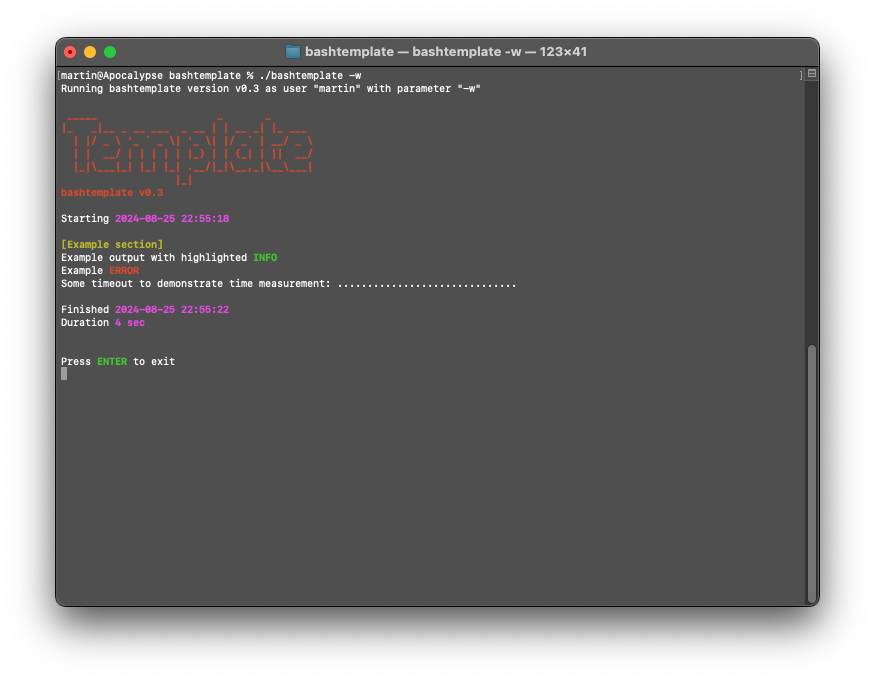
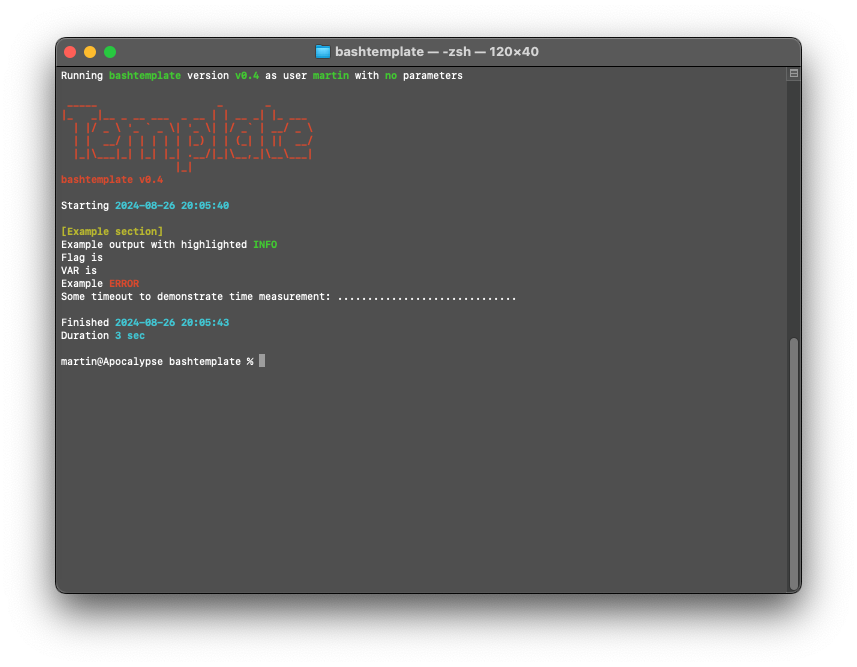
Updated Screenshot and README

Changed region(s): [[0.0607, 0.03, 0.9405, 0.8996]]

diff --git a/README.md b/README.md
@@ -11,10 +11,8 @@ This script helps you with:
 - Handling of commandline parameters
 - Measering used time
 - Coloring of output
-- Exiting with or without error
 - Warning about empty variables
 - Debugging output (if needed)
-- Waiting on exit (if needed)
 
 ## Screenshot
 
